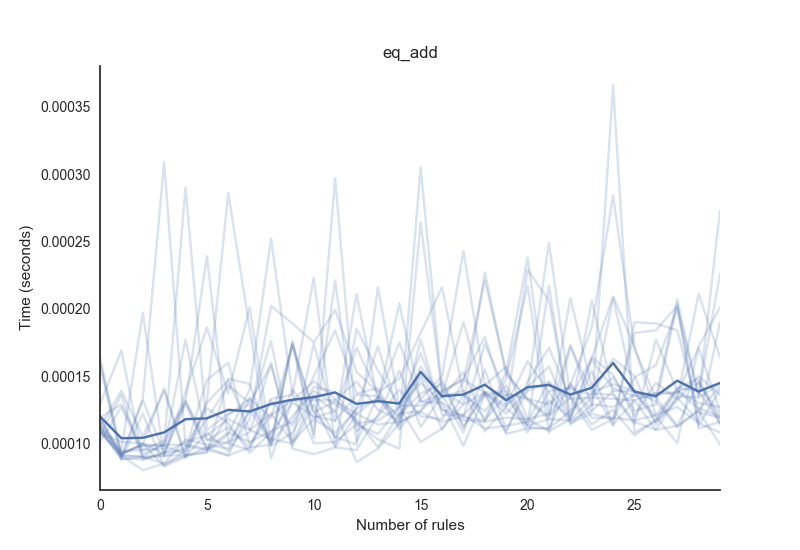
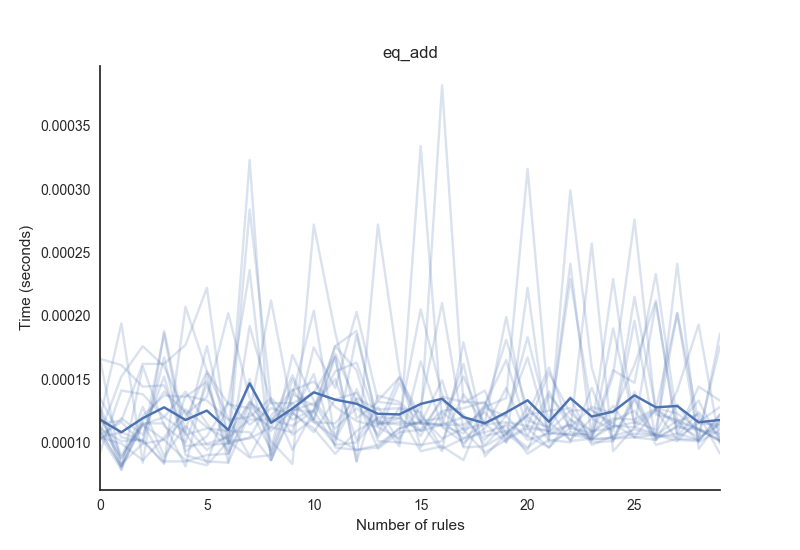
cached td, performance experiment

diff --git a/experiments/performance/generate_data.py b/experiments/performance/generate_data.py
@@ -1,0 +1,77 @@
+from subprocess import STDOUT, check_output, TimeoutExpired
+from argparse import ArgumentParser
+import sys
+import csv
+
+parser = ArgumentParser("Generation of CSV data for performance benchmarking.")
+parser.add_argument("benchmark")
+parser.add_argument("--verbose", "-v", default=False, action="store_true")
+parser.add_argument("--iterations", "-i", default=10, type=int)
+parser.add_argument("--output", "-o", default="data.csv")
+parser.add_argument("--timeout", "-t", default=300, type=int)
+args = parser.parse_args()
+
+# the rules
+RULES = [
+    "../../rules/avg.scm",
+    "../../rules/base.scm",
+    "../../rules/bool.scm",
+    "../../rules/int_compare.scm",
+    "../../rules/int_extended.scm",
+    "../../rules/int.scm",
+    "../../rules/list.scm",
+    "../../rules/string.scm",
+    "../../rules/tuple.scm"
+]
+RULESTRING = " ".join(map(lambda r: "-rule {}".format(r), RULES))
+# the executable
+GODEL = "../../godel.native"
+# the commands
+BU = "{godel} -target {bm} -stats {rules}".format(godel=GODEL, bm=args.benchmark, rules=RULESTRING)
+BUN = "{godel} -target {bm} -stats -no-kbo -dtree {rules}".format(godel=GODEL, bm=args.benchmark, rules=RULESTRING)
+BUNK = "{godel} -target {bm} -stats -dtree {rules}".format(godel=GODEL, bm=args.benchmark, rules=RULESTRING)
+TD = "{godel} -target {bm} -stats -strategy td {rules}".format(godel=GODEL, bm=args.benchmark, rules=RULESTRING)
+TDN = "{godel} -target {bm} -stats -strategy td -no-kbo -dtree {rules}".format(godel=GODEL, bm=args.benchmark, rules=RULESTRING)
+TDNK = "{godel} -target {bm} -stats -strategy td -dtree {rules}".format(godel=GODEL, bm=args.benchmark, rules=RULESTRING)
+
+# cleanly wrap a command execution with a timeout handler
+def run_command(cmd):
+    try:
+         output = check_output(cmd, stderr=STDOUT, timeout=args.timeout, shell=True)
+         return output.decode(sys.stdout.encoding)
+    except TimeoutExpired as e:
+        return e.output.decode(sys.stdout.encoding)
+
+# process godel's output to get the execution time
+def get_time(output):
+    try:
+        lines = output.split("\n")
+        time_line = list(filter(lambda l: l.startswith("TIME:"), lines))[0]
+        return float(time_line.split()[-1])
+    except Exception as e:
+        print(e)
+        return args.timeout
+
+# repeatedly run experiment to get a single data frame
+def get_frame():
+    experiments = [BU, BUN, BUNK, TD, TDN, TDNK]
+    output = []
+    for e in experiments:
+        d = get_time(run_command(e))
+        if args.verbose:
+            print("--> {}".format(d))
+        output.append(d)
+    return output
+
+# now get and save all the data
+data = [["BU", "BUN", "BUNK", "TD", "TDN", "TDNK"]]
+for i in range(args.iterations):
+    if args.verbose:
+        print("Getting frame {}...".format(i+1))
+    data.append(get_frame())
+
+# write the frames out to file
+with open(args.output, "w") as f:
+    writer = csv.writer(f, delimiter="\t")
+    for row in data:
+        writer.writerow(row)

diff --git a/experiments/num_rules/generate_data.py b/experiments/num_rules/generate_data.py
@@ -13,7 +13,7 @@ parser.add_argument("--output", "-o", default="data.csv")
 args = parser.parse_args()
 
 rule_string = " ".join(list(map(lambda s: "-rule " + s, args.rules)))
-CMD = "../../godel.native -target {} -subset {} -stats {}".format(args.benchmark, "{}", rule_string)
+CMD = "../../godel.native -target {} -subset {} -stats {} -dtree".format(args.benchmark, "{}", rule_string)
 
 # cleanly wrap a command execution with a timeout handler
 def run_command(cmd, seconds):
